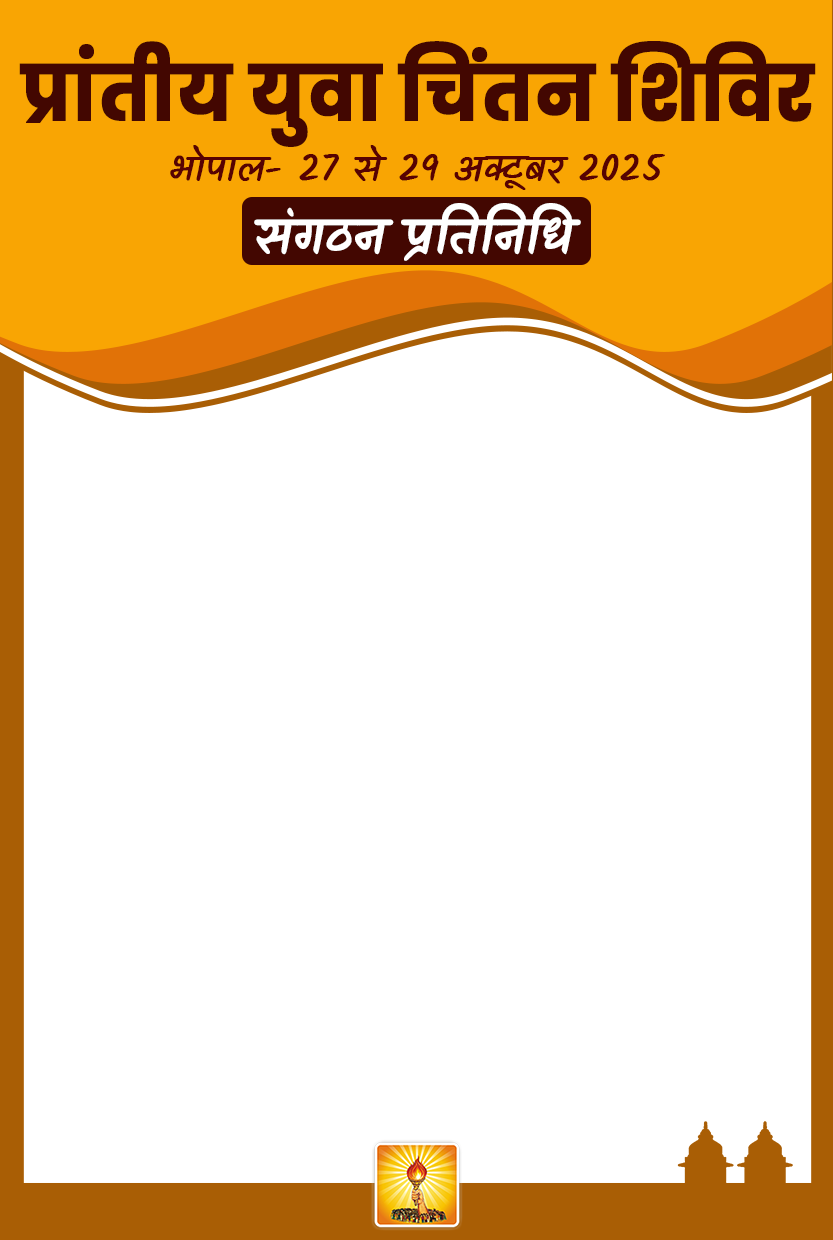
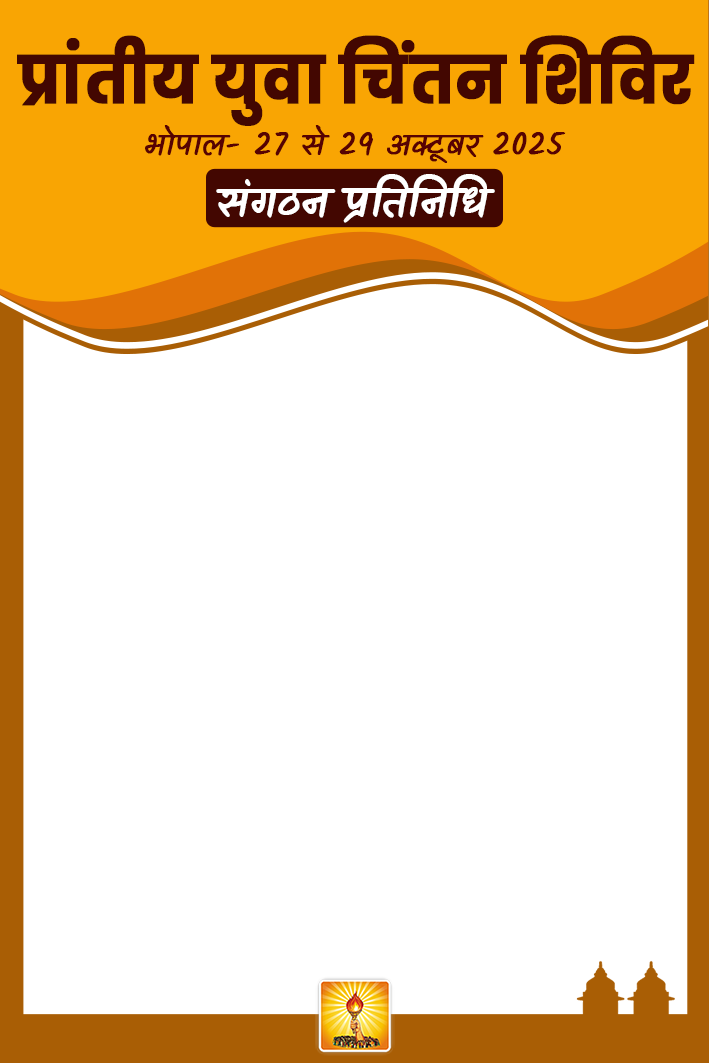
..

diff --git a/events/management/commands/export_users_excel.py b/events/management/commands/export_users_excel.py
@@ -1,7 +1,8 @@
 from django.core.management.base import BaseCommand
 from django.utils import timezone
 from events.models import EventRegistration
-import pandas as pd
+from openpyxl import Workbook
+from openpyxl.styles import Font, PatternFill
 import os
 from datetime import datetime
 
@@ -57,94 +58,143 @@ class Command(BaseCommand):
             self.stdout.write(f'Approved users: {approved_users.count()}')
             self.stdout.write(f'Non-approved users: {non_approved_users.count()}')
 
-            # Prepare data for Excel
-            def prepare_registration_data(registrations):
-                data = []
-                for reg in registrations:
-                    row = {
-                        'Registration Number': reg.registration_number or 'Not Generated',
-                        'Full Name': reg.full_name,
-                        'Phone': reg.phone,
-                        'Email': reg.email,
-                        'Date of Birth': reg.date_of_birth.strftime('%d/%m/%Y') if reg.date_of_birth else '',
-                        'Gender': reg.get_gender_display(),
-                        'Registration Type': reg.get_registration_type_display(),
-                        'Event': reg.event.title,
-                        'State': reg.state,
-                        'District/City': reg.city,
-                        'Village/Taluka': reg.village_taluka,
-                        'Country': reg.country,
-                        'Education': reg.get_education_display(),
-                        'Occupation': reg.occupation or '',
-                        'Transport Mode': reg.get_transport_mode_display(),
-                        'Vehicle Number': reg.vehicle_number or '',
-                        'Arrival Date': reg.get_arrival_date_display(),
-                        'Previous Shivir': 'Yes' if reg.previous_shivir else 'No',
-                        'Gayatri Diksha': 'Yes' if reg.gayatri_diksha else ('No' if reg.gayatri_diksha is False else 'Not Specified'),
-                        'Special Skills': reg.special_skills_other or '',
-                        'Selected Campaigns': reg.get_campaign_names(),
-                        'Selected Vibhags': reg.get_vibhag_names(),
-                        'Responsibility': reg.responsibility.name if reg.responsibility else '',
-                        'Volunteer Start Date': reg.volunteer_start_date.strftime('%d/%m/%Y') if reg.volunteer_start_date else '',
-                        'Volunteer End Date': reg.volunteer_end_date.strftime('%d/%m/%Y') if reg.volunteer_end_date else '',
-                        'Interested in Volunteering': 'Yes' if reg.interested_in_volunteering else 'No',
-                        'Volunteering Details': reg.volunteering_details or '',
-                        'Approval Status': reg.get_approval_status_display(),
-                        'District Approver': reg.district_approver.get_full_name() if reg.district_approver else '',
-                        'District Approved At': reg.district_approved_at.strftime('%d/%m/%Y %H:%M') if reg.district_approved_at else '',
-                        'UpZone Approver': reg.upzone_approver.get_full_name() if reg.upzone_approver else '',
-                        'UpZone Approved At': reg.upzone_approved_at.strftime('%d/%m/%Y %H:%M') if reg.upzone_approved_at else '',
-                        'Final Approver': reg.final_approver.get_full_name() if reg.final_approver else '',
-                        'Final Approved At': reg.final_approved_at.strftime('%d/%m/%Y %H:%M') if reg.final_approved_at else '',
-                        'Rejected By': reg.rejected_by.get_full_name() if reg.rejected_by else '',
-                        'Rejected At': reg.rejected_at.strftime('%d/%m/%Y %H:%M') if reg.rejected_at else '',
-                        'Rejection Reason': reg.rejection_reason or '',
-                        'Registration Date': reg.registration_date.strftime('%d/%m/%Y %H:%M'),
-                        'Payment Status': 'Paid' if reg.payment_status else 'Pending',
-                        'Email Sent': 'Yes' if reg.email_sent else 'No',
-                        'Is Confirmed': 'Yes' if reg.is_confirmed else 'No',
-                        'Aadhar Upload Type': reg.aadhar_upload_type or '',
-                        'Aadhar Full URL': reg.aadhar_full or '',
-                        'Aadhar Front URL': reg.aadhar_front or '',
-                        'Aadhar Back URL': reg.aadhar_back or '',
-                        'Passport Photo URL': reg.passport_photo or '',
-                    }
-                    data.append(row)
-                return data
-
-            # Create Excel writer
-            with pd.ExcelWriter(filepath, engine='openpyxl') as writer:
-                # Approved users sheet
-                if approved_users.exists():
-                    approved_data = prepare_registration_data(approved_users)
-                    approved_df = pd.DataFrame(approved_data)
-                    approved_df.to_excel(writer, sheet_name='Approved Users', index=False)
-                    self.stdout.write(f'✓ Approved users sheet created with {len(approved_data)} records')
-
-                # Non-approved users sheet
-                if non_approved_users.exists():
-                    non_approved_data = prepare_registration_data(non_approved_users)
-                    non_approved_df = pd.DataFrame(non_approved_data)
-                    non_approved_df.to_excel(writer, sheet_name='Non-Approved Users', index=False)
-                    self.stdout.write(f'✓ Non-approved users sheet created with {len(non_approved_data)} records')
-
-                # Summary sheet
-                summary_data = [
-                    ['Total Registrations', all_registrations.count()],
-                    ['Approved Users', approved_users.count()],
-                    ['Pending Users', all_registrations.filter(approval_status='pending').count()],
-                    ['District Approved Users', all_registrations.filter(approval_status='district_approved').count()],
-                    ['UpZone Approved Users', all_registrations.filter(approval_status='upzone_approved').count()],
-                    ['Rejected Users', all_registrations.filter(approval_status='rejected').count()],
-                    ['Participants', all_registrations.filter(registration_type='participant').count()],
-                    ['Volunteers', all_registrations.filter(registration_type='volunteer').count()],
-                    ['Organization Representatives', all_registrations.filter(registration_type='organization_representative').count()],
-                    ['Export Date', timezone.now().strftime('%d/%m/%Y %H:%M:%S')],
+            # Create Excel workbook
+            wb = Workbook()
+            
+            # Define headers
+            headers = [
+                'Registration Number', 'Full Name', 'Phone', 'Email', 'Date of Birth', 'Gender',
+                'Registration Type', 'Event', 'State', 'District/City', 'Village/Taluka', 'Country',
+                'Education', 'Occupation', 'Transport Mode', 'Vehicle Number', 'Arrival Date',
+                'Previous Shivir', 'Gayatri Diksha', 'Special Skills', 'Selected Campaigns',
+                'Selected Vibhags', 'Responsibility', 'Volunteer Start Date', 'Volunteer End Date',
+                'Interested in Volunteering', 'Volunteering Details', 'Approval Status',
+                'District Approver', 'District Approved At', 'UpZone Approver', 'UpZone Approved At',
+                'Final Approver', 'Final Approved At', 'Rejected By', 'Rejected At', 'Rejection Reason',
+                'Registration Date', 'Payment Status', 'Email Sent', 'Is Confirmed',
+                'Aadhar Upload Type', 'Aadhar Full URL', 'Aadhar Front URL', 'Aadhar Back URL', 'Passport Photo URL'
+            ]
+            
+            def get_registration_row(reg):
+                return [
+                    reg.registration_number or 'Not Generated',
+                    reg.full_name,
+                    reg.phone,
+                    reg.email,
+                    reg.date_of_birth.strftime('%d/%m/%Y') if reg.date_of_birth else '',
+                    reg.get_gender_display(),
+                    reg.get_registration_type_display(),
+                    reg.event.title,
+                    reg.state,
+                    reg.city,
+                    reg.village_taluka,
+                    reg.country,
+                    reg.get_education_display(),
+                    reg.occupation or '',
+                    reg.get_transport_mode_display(),
+                    reg.vehicle_number or '',
+                    reg.get_arrival_date_display(),
+                    'Yes' if reg.previous_shivir else 'No',
+                    'Yes' if reg.gayatri_diksha else ('No' if reg.gayatri_diksha is False else 'Not Specified'),
+                    reg.special_skills_other or '',
+                    reg.get_campaign_names(),
+                    reg.get_vibhag_names(),
+                    reg.responsibility.name if reg.responsibility else '',
+                    reg.volunteer_start_date.strftime('%d/%m/%Y') if reg.volunteer_start_date else '',
+                    reg.volunteer_end_date.strftime('%d/%m/%Y') if reg.volunteer_end_date else '',
+                    'Yes' if reg.interested_in_volunteering else 'No',
+                    reg.volunteering_details or '',
+                    reg.get_approval_status_display(),
+                    reg.district_approver.get_full_name() if reg.district_approver else '',
+                    reg.district_approved_at.strftime('%d/%m/%Y %H:%M') if reg.district_approved_at else '',
+                    reg.upzone_approver.get_full_name() if reg.upzone_approver else '',
+                    reg.upzone_approved_at.strftime('%d/%m/%Y %H:%M') if reg.upzone_approved_at else '',
+                    reg.final_approver.get_full_name() if reg.final_approver else '',
+                    reg.final_approved_at.strftime('%d/%m/%Y %H:%M') if reg.final_approved_at else '',
+                    reg.rejected_by.get_full_name() if reg.rejected_by else '',
+                    reg.rejected_at.strftime('%d/%m/%Y %H:%M') if reg.rejected_at else '',
+                    reg.rejection_reason or '',
+                    reg.registration_date.strftime('%d/%m/%Y %H:%M'),
+                    'Paid' if reg.payment_status else 'Pending',
+                    'Yes' if reg.email_sent else 'No',
+                    'Yes' if reg.is_confirmed else 'No',
+                    reg.aadhar_upload_type or '',
+                    reg.aadhar_full or '',
+                    reg.aadhar_front or '',
+                    reg.aadhar_back or '',
+                    reg.passport_photo or '',
                 ]
+            
+            # Create approved users sheet
+            if approved_users.exists():
+                ws_approved = wb.active
+                ws_approved.title = "Approved Users"
                 
-                summary_df = pd.DataFrame(summary_data, columns=['Metric', 'Count'])
-                summary_df.to_excel(writer, sheet_name='Summary', index=False)
-                self.stdout.write('✓ Summary sheet created')
+                # Add headers with styling
+                header_font = Font(bold=True)
+                header_fill = PatternFill(start_color="366092", end_color="366092", fill_type="solid")
+                
+                for col, header in enumerate(headers, 1):
+                    cell = ws_approved.cell(row=1, column=col, value=header)
+                    cell.font = header_font
+                    cell.fill = header_fill
+                
+                # Add data
+                for row_num, reg in enumerate(approved_users, 2):
+                    row_data = get_registration_row(reg)
+                    for col, value in enumerate(row_data, 1):
+                        ws_approved.cell(row=row_num, column=col, value=value)
+                
+                self.stdout.write(f'✓ Approved users sheet created with {approved_users.count()} records')
+            
+            # Create non-approved users sheet
+            if non_approved_users.exists():
+                ws_non_approved = wb.create_sheet("Non-Approved Users")
+                
+                # Add headers with styling
+                header_font = Font(bold=True)
+                header_fill = PatternFill(start_color="D9534F", end_color="D9534F", fill_type="solid")
+                
+                for col, header in enumerate(headers, 1):
+                    cell = ws_non_approved.cell(row=1, column=col, value=header)
+                    cell.font = header_font
+                    cell.fill = header_fill
+                
+                # Add data
+                for row_num, reg in enumerate(non_approved_users, 2):
+                    row_data = get_registration_row(reg)
+                    for col, value in enumerate(row_data, 1):
+                        ws_non_approved.cell(row=row_num, column=col, value=value)
+                
+                self.stdout.write(f'✓ Non-approved users sheet created with {non_approved_users.count()} records')
+            
+            # Create summary sheet
+            ws_summary = wb.create_sheet("Summary")
+            summary_data = [
+                ['Metric', 'Count'],
+                ['Total Registrations', all_registrations.count()],
+                ['Approved Users', approved_users.count()],
+                ['Pending Users', all_registrations.filter(approval_status='pending').count()],
+                ['District Approved Users', all_registrations.filter(approval_status='district_approved').count()],
+                ['UpZone Approved Users', all_registrations.filter(approval_status='upzone_approved').count()],
+                ['Rejected Users', all_registrations.filter(approval_status='rejected').count()],
+                ['Participants', all_registrations.filter(registration_type='participant').count()],
+                ['Volunteers', all_registrations.filter(registration_type='volunteer').count()],
+                ['Organization Representatives', all_registrations.filter(registration_type='organization_representative').count()],
+                ['Export Date', timezone.now().strftime('%d/%m/%Y %H:%M:%S')],
+            ]
+            
+            for row_num, (metric, count) in enumerate(summary_data, 1):
+                ws_summary.cell(row=row_num, column=1, value=metric)
+                ws_summary.cell(row=row_num, column=2, value=count)
+                if row_num == 1:  # Header row
+                    ws_summary.cell(row=row_num, column=1).font = Font(bold=True)
+                    ws_summary.cell(row=row_num, column=2).font = Font(bold=True)
+            
+            self.stdout.write('✓ Summary sheet created')
+            
+            # Save the workbook
+            wb.save(filepath)
 
             self.stdout.write(
                 self.style.SUCCESS(f'✅ Export completed successfully!')

diff --git a/ycs_mp/settings.py b/ycs_mp/settings.py
@@ -13,10 +13,10 @@ https://docs.djangoproject.com/en/5.2/ref/settings/
 import os
 from pathlib import Path
 
-from django_environ import Env as environ
+import environ
 
-env = environ()
-env.read_env(os.path.join(Path(__file__).resolve().parent.parent, '.env'))
+env = environ.Env()
+environ.Env.read_env(os.path.join(Path(__file__).resolve().parent.parent, '.env'))
 
 # Build paths inside the project like this: BASE_DIR / 'subdir'.
 BASE_DIR = Path(__file__).resolve().parent.parent
